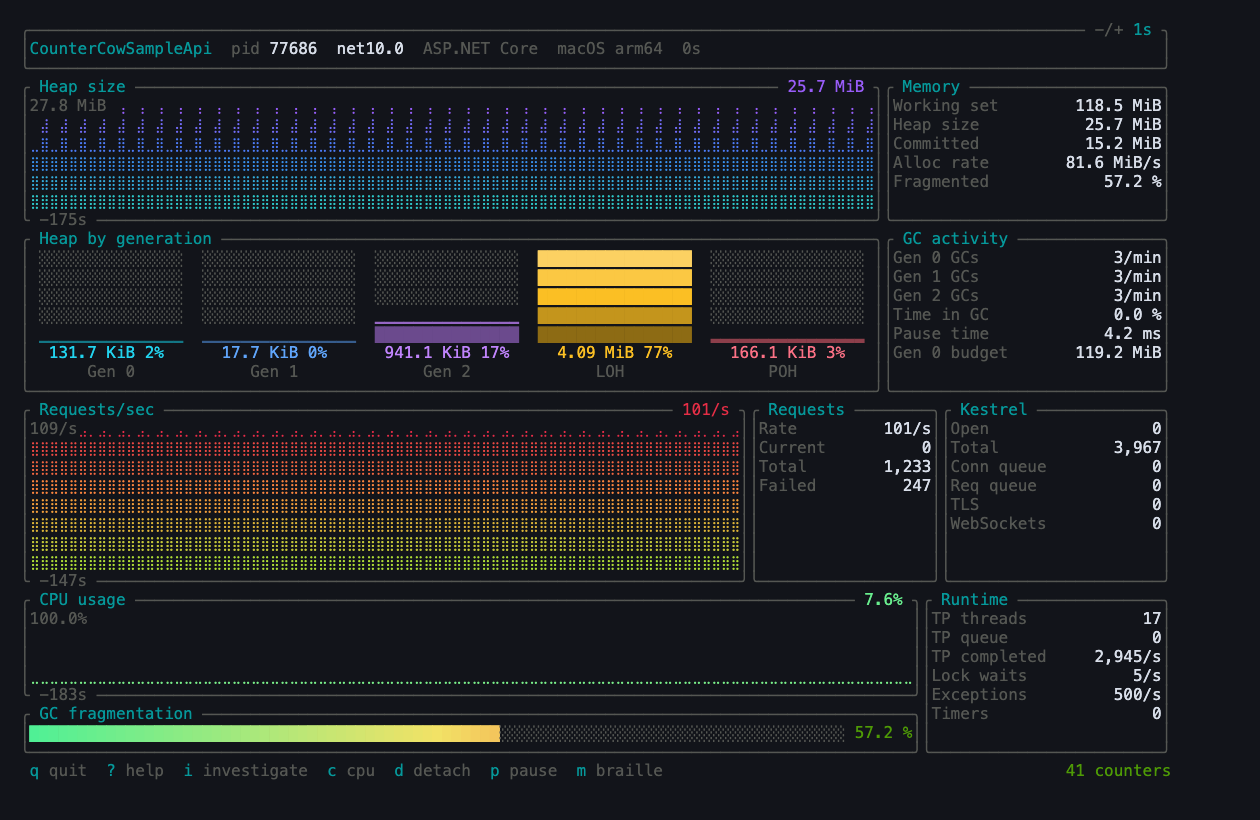
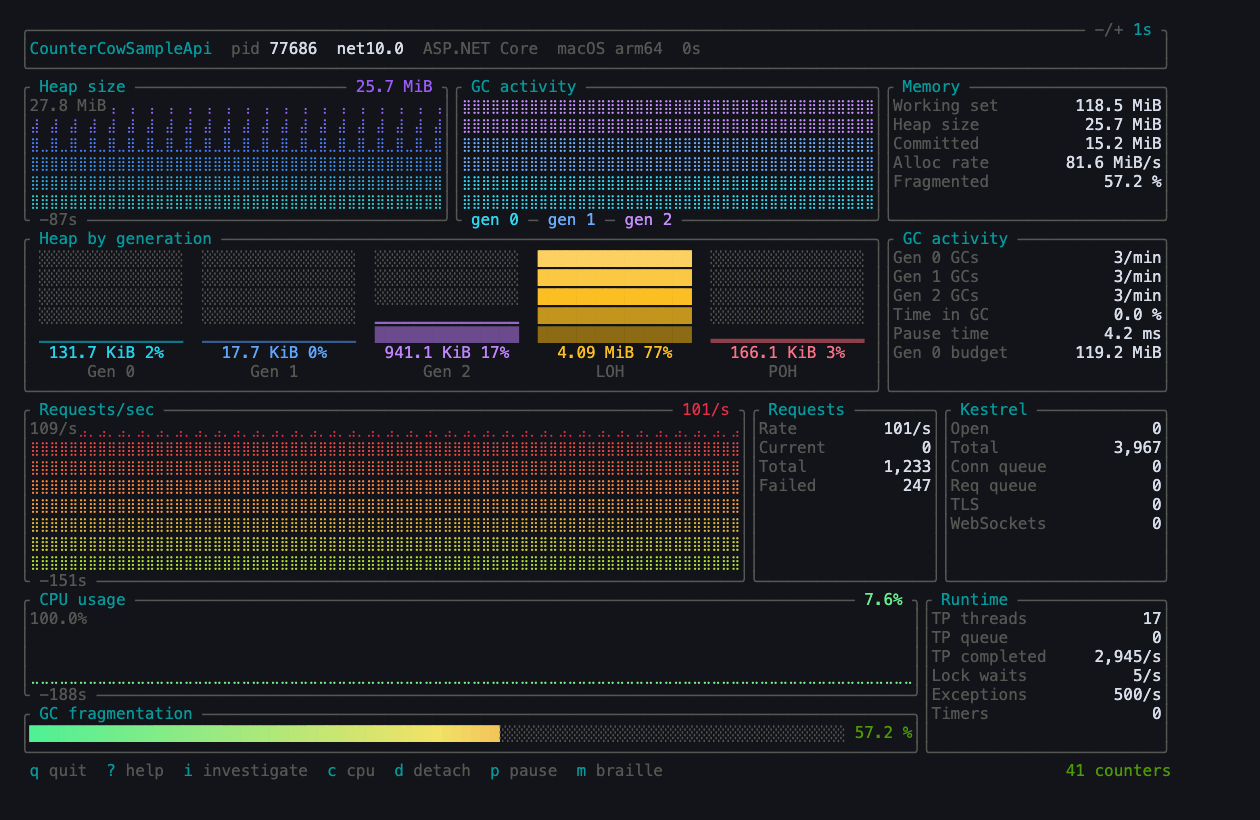
Chart collections over time, stacked by generation
The GC activity panel reports its counters as rates, which on anything
but a busy process read zero and look like a panel that does not work.
The events are real but there is nowhere to see them: a collection moves
the number for one interval and is gone.

A timeline beside the heap chart keeps them. Collections per interval,
stacked gen 0 to gen 2, each band in the same colour as its bar in the
panel below, with the legend in the bottom border. A quiet process now
reads as visibly quiet rather than as broken, and a gen 2 collection is a
mark you can point at while the heap chart next to it explains why.

Stacked plotting colours a cell by the highest band in it rather than by
height, which is the opposite of the other graphs but the right way round
here: the question is which generation collected, not how far up it got.
Braille packs two samples into a cell, so a band boundary has to land on a
cell edge — there is no way to colour half of one.

The scale has a floor of four collections, so one collection in a quiet
window is a mark near the bottom rather than a full-height bar reading as
an emergency. Below about a hundred columns the row goes back to the heap
chart alone; two charts sharing sixty columns leaves neither wide enough
to show a shape.

Changed region(s): [[0.031, 0.0915, 0.7119, 0.2744], [0.031, 0.2439, 0.0619, 0.2744]]

diff --git a/src/ui/graph.rs b/src/ui/graph.rs
@@ -165,6 +165,127 @@ impl Graph<'_> {
     }
 }
 
+/// One series of a [`Stacked`] plot, drawn on top of the bands before it.
+pub struct Band<'a> {
+    /// Oldest first, the same length as every other band in the plot.
+    pub values: &'a [f64],
+    pub color: Color,
+}
+
+/// Several series stacked into one plot, newest sample at the right edge.
+///
+/// Unlike [`Graph`] the colour carries the series rather than the height, because that is the
+/// question here: which generation collected, not how far up the plot it reached. A cell takes the
+/// colour of the highest band present in it, so a boundary between two bands lands on a cell edge
+/// rather than inside one — braille packs two samples into a cell and there is no way to colour
+/// half of one.
+pub struct Stacked<'a> {
+    /// Bottom band first.
+    pub bands: &'a [Band<'a>],
+    /// Full-scale value for the summed stack.
+    pub max: f64,
+    pub plot: Plot,
+}
+
+impl Stacked<'_> {
+    pub fn render(&self, buf: &mut Buffer, area: Rect) {
+        if area.width == 0 || area.height == 0 || self.max <= 0.0 || self.bands.is_empty() {
+            return;
+        }
+
+        let rows_per_cell = self.plot.rows_per_cell();
+        let columns = Graph::capacity(self.plot, area.width);
+        let sub_rows = area.height as usize * rows_per_cell;
+
+        // Cumulative sub-row height per band, per sub-column: tops[column][band] is where that
+        // band ends, so the band owning a given height is the first one that reaches it.
+        let mut tops = vec![vec![0usize; self.bands.len()]; columns];
+        for (index, band) in self.bands.iter().enumerate() {
+            let recent = &band.values[band.values.len().saturating_sub(columns)..];
+            let offset = columns - recent.len();
+            for (position, value) in recent.iter().enumerate() {
+                let column = &mut tops[offset + position];
+                let below = if index == 0 { 0 } else { column[index - 1] };
+                let height = if value.is_finite() && *value > 0.0 {
+                    ((value / self.max * sub_rows as f64).round() as usize).max(1)
+                } else {
+                    0
+                };
+                column[index] = (below + height).min(sub_rows);
+            }
+        }
+
+        for cell_y in 0..area.height {
+            for cell_x in 0..area.width {
+                let Some((symbol, band)) =
+                    self.cell(&tops, sub_rows, rows_per_cell, cell_x, cell_y)
+                else {
+                    continue;
+                };
+                buf[(area.x + cell_x, area.y + cell_y)]
+                    .set_char(symbol)
+                    .set_style(Style::default().fg(self.bands[band].color));
+            }
+        }
+    }
+
+    /// The glyph for one cell and the band that should colour it.
+    fn cell(
+        &self,
+        tops: &[Vec<usize>],
+        sub_rows: usize,
+        rows_per_cell: usize,
+        cell_x: u16,
+        cell_y: u16,
+    ) -> Option<(char, usize)> {
+        let total = |column: usize| tops[column].last().copied().unwrap_or(0);
+        // The band that owns the highest filled sub-row in this cell is the one that colours it.
+        let mut highest = 0usize;
+        let mut owner = 0usize;
+
+        let symbol = if self.plot == Plot::Block {
+            let column = cell_x as usize;
+            let base = sub_rows - (cell_y as usize + 1) * rows_per_cell;
+            let eighths = total(column).saturating_sub(base).min(8);
+            if eighths == 0 {
+                return None;
+            }
+            highest = base + eighths;
+            owner = self.owner(&tops[column], highest);
+            EIGHTHS[eighths]
+        } else {
+            let mut pattern = 0usize;
+            for row in 0..rows_per_cell {
+                let from_bottom = sub_rows - (cell_y as usize * rows_per_cell + row);
+                for offset in 0..2 {
+                    let column = cell_x as usize * 2 + offset;
+                    if total(column) >= from_bottom {
+                        pattern |= 1 << (row * 2 + offset);
+                        if from_bottom > highest {
+                            highest = from_bottom;
+                            owner = self.owner(&tops[column], from_bottom);
+                        }
+                    }
+                }
+            }
+            if pattern == 0 {
+                return None;
+            }
+            match self.plot {
+                Plot::Octant => pixel::OCTANTS[pattern],
+                _ => braille::BRAILLE[pattern],
+            }
+        };
+
+        Some((symbol, owner))
+    }
+
+    /// The band a given height belongs to.
+    fn owner(&self, tops: &[usize], height: usize) -> usize {
+        tops.iter().position(|&top| height <= top).unwrap_or(tops.len() - 1)
+    }
+}
+
 /// One value as a chunky vertical bar filling `area`, coloured by height like a [`Graph`].
 ///
 /// `track` shades the unfilled remainder. Bars in a group share a scale, so a small one is a
@@ -360,6 +481,65 @@ mod tests {
         let mut buf = Buffer::empty(Rect::new(0, 0, 10, 10));
         graph(&[1.0], 1.0, Plot::Braille).render(&mut buf, Rect::new(0, 0, 0, 5));
         graph(&[1.0], 1.0, Plot::Braille).render(&mut buf, Rect::new(0, 0, 5, 0));
+    }
+
+    /// Render a stack and return each row as (symbols, distinct colours left to right).
+    fn stack(bands: &[(&[f64], Color)], max: f64, width: u16, height: u16) -> Vec<(String, Vec<Color>)> {
+        let area = Rect::new(0, 0, width, height);
+        let mut buf = Buffer::empty(area);
+        let bands: Vec<Band> = bands.iter().map(|(values, color)| Band { values, color: *color }).collect();
+        Stacked { bands: &bands, max, plot: Plot::Block }.render(&mut buf, area);
+
+        (0..height)
+            .map(|y| {
+                let symbols: String = (0..width).map(|x| buf[(x, y)].symbol()).collect();
+                let colours = (0..width).map(|x| buf[(x, y)].fg).collect();
+                (symbols, colours)
+            })
+            .collect()
+    }
+
+    #[test]
+    fn bands_stack_bottom_first_and_keep_their_own_colours() {
+        // Two units of red under two of blue, on a four-unit scale: each fills half the plot.
+        let rows = stack(&[(&[2.0; 4], Color::Red), (&[2.0; 4], Color::Blue)], 4.0, 4, 2);
+        assert_eq!(rows[0].0, "████", "the upper band");
+        assert_eq!(rows[1].0, "████", "the lower band");
+        assert!(rows[0].1.iter().all(|c| *c == Color::Blue), "{:?}", rows[0].1);
+        assert!(rows[1].1.iter().all(|c| *c == Color::Red), "{:?}", rows[1].1);
+    }
+
+    #[test]
+    fn a_band_that_is_all_zero_takes_no_room() {
+        let rows = stack(&[(&[4.0; 2], Color::Red), (&[0.0; 2], Color::Blue)], 4.0, 2, 2);
+        assert!(rows.iter().all(|(_, colours)| colours.iter().all(|c| *c == Color::Red)));
+    }
+
+    #[test]
+    fn an_empty_stack_draws_nothing() {
+        let rows = stack(&[(&[0.0; 4], Color::Red), (&[0.0; 4], Color::Blue)], 4.0, 4, 2);
+        assert!(rows.iter().all(|(symbols, _)| symbols.trim().is_empty()), "{rows:?}");
+    }
+
+    #[test]
+    fn a_stack_is_anchored_to_the_right_like_a_graph() {
+        let rows = stack(&[(&[4.0, 4.0], Color::Red)], 4.0, 4, 1);
+        assert_eq!(rows[0].0, "  ██");
+    }
+
+    #[test]
+    fn a_stack_clamps_rather_than_overflowing_its_area() {
+        let rows = stack(&[(&[99.0; 2], Color::Red), (&[99.0; 2], Color::Blue)], 4.0, 2, 2);
+        assert!(rows.iter().all(|(symbols, _)| symbols == "██"), "{rows:?}");
+    }
+
+    #[test]
+    fn a_degenerate_stack_is_survivable() {
+        let mut buf = Buffer::empty(Rect::new(0, 0, 10, 10));
+        let bands = [Band { values: &[1.0], color: Color::Red }];
+        Stacked { bands: &bands, max: 1.0, plot: Plot::Braille }.render(&mut buf, Rect::new(0, 0, 0, 4));
+        Stacked { bands: &[], max: 1.0, plot: Plot::Braille }.render(&mut buf, Rect::new(0, 0, 4, 4));
+        Stacked { bands: &bands, max: 0.0, plot: Plot::Braille }.render(&mut buf, Rect::new(0, 0, 4, 4));
     }
 
     #[test]

diff --git a/src/ui/dashboard.rs b/src/ui/dashboard.rs
@@ -10,6 +10,7 @@ use crate::app::{format_uptime, App, Reading, Status};
 use crate::counters::catalog;
 
 use super::chart::{self, Scale, TimeSeries};
+use super::graph;
 use super::panels;
 use super::theme::Theme;
 
@@ -169,6 +170,10 @@ fn format_interval(seconds: f64) -> String {
 const BARS_HEIGHT: u16 = 9;
 /// Smallest chart that still conveys a trend.
 const MIN_CHART_HEIGHT: u16 = 6;
+/// Width below which a chart is too cramped to be worth splitting the row for.
+const MIN_CHART_WIDTH: u16 = 34;
+/// Collections per interval that fill the GC chart, however quiet the process is.
+const GC_CHART_FLOOR: f64 = 4.0;
 
 /// GC and memory, which gets the most space on both layouts.
 fn render_gc_section(frame: &mut Frame, area: Rect, app: &App, theme: &Theme) {
@@ -188,13 +193,27 @@ fn render_gc_section(frame: &mut Frame, area: Rect, app: &App, theme: &Theme) {
     let [top, bottom] =
         Layout::vertical([Constraint::Fill(1), Constraint::Length(BARS_HEIGHT)]).areas(area);
 
-    let [chart_area, memory_area] =
-        Layout::horizontal([Constraint::Fill(1), Constraint::Length(stats_width)]).areas(top);
     let [bars_area, activity_area] =
         Layout::horizontal([Constraint::Fill(1), Constraint::Length(stats_width)]).areas(bottom);
 
-    render_bytes_chart(frame, chart_area, app, theme, "Heap size", "gc-heap-size");
-    panels::stats(frame, memory_area, theme, "Memory", &panels::memory_rows(app));
+    // The GC chart only earns its place once both charts still have room to show a shape; below
+    // that the heap trend is the more useful of the two and keeps the whole width.
+    if top.width >= stats_width + MIN_CHART_WIDTH * 2 {
+        let [chart_area, gc_area, memory_area] = Layout::horizontal([
+            Constraint::Fill(1),
+            Constraint::Fill(1),
+            Constraint::Length(stats_width),
+        ])
+        .areas(top);
+        render_bytes_chart(frame, chart_area, app, theme, "Heap size", "gc-heap-size");
+        render_gc_chart(frame, gc_area, app, theme);
+        panels::stats(frame, memory_area, theme, "Memory", &panels::memory_rows(app));
+    } else {
+        let [chart_area, memory_area] =
+            Layout::horizontal([Constraint::Fill(1), Constraint::Length(stats_width)]).areas(top);
+        render_bytes_chart(frame, chart_area, app, theme, "Heap size", "gc-heap-size");
+        panels::stats(frame, memory_area, theme, "Memory", &panels::memory_rows(app));
+    }
     panels::generation_bars(frame, bars_area, theme, app);
     panels::stats(frame, activity_area, theme, "GC activity", &panels::gc_activity_rows(app));
 }
@@ -296,6 +315,63 @@ fn render_runtime_section(
     if with_jit {
         panels::stats(frame, chunks[2], theme, "JIT", &panels::jit_rows(app));
     }
+}
+
+/// Collections per interval, stacked by generation.
+///
+/// The stats panel next door reports the same counters as rates, which on anything but a busy
+/// process reads zero most of the time and looks broken. Here a collection is a mark on a timeline
+/// in its generation's colour, so a quiet process is visibly quiet rather than apparently dead.
+fn render_gc_chart(frame: &mut Frame, area: Rect, app: &App, theme: &Theme) {
+    let labels = ["gen 0", "gen 1", "gen 2"];
+    let series: Vec<Vec<f64>> = catalog::GC_COUNT_COUNTERS
+        .iter()
+        .map(|counter| {
+            app.history(catalog::SYSTEM_RUNTIME, counter)
+                .iter()
+                .map(|reading| reading.value)
+                .collect()
+        })
+        .collect();
+
+    if series.iter().all(|values| values.is_empty()) {
+        chart::placeholder(frame, area, "GC activity", theme);
+        return;
+    }
+
+    // The generations report independently, so trim to the shortest before stacking: a band that
+    // is one sample longer than its neighbour would stack the wrong readings on top of each other.
+    let shortest = series.iter().map(Vec::len).min().unwrap_or(0);
+    // A floor on the scale, so one collection in a quiet window is a mark near the bottom rather
+    // than a full-height bar that reads as an emergency.
+    let peak = (0..shortest)
+        .map(|index| series.iter().map(|values| values[index]).sum::<f64>())
+        .fold(0.0, f64::max)
+        .max(GC_CHART_FLOOR);
+
+    let mut block = panels::titled_block("GC activity", theme);
+    for (index, label) in labels.iter().enumerate() {
+        let colour = theme.on(&theme.generation_gradient(index), 0.6);
+        block = block.title_bottom(Span::from(format!(" {label} ")).fg(colour));
+    }
+
+    let inner = block.inner(area);
+    frame.render_widget(block, area);
+    if inner.width == 0 || inner.height == 0 || peak <= 0.0 {
+        return;
+    }
+
+    let bands: Vec<graph::Band> = series
+        .iter()
+        .enumerate()
+        .map(|(index, values)| graph::Band {
+            values: &values[values.len() - shortest..],
+            color: theme.on(&theme.generation_gradient(index), 0.6),
+        })
+        .collect();
+
+    graph::Stacked { bands: &bands, max: peak, plot: theme.plot }
+        .render(frame.buffer_mut(), inner);
 }
 
 /// Chart a memory counter, scaling its history to bytes so the axis reads correctly whether the

diff --git a/examples/preview.rs b/examples/preview.rs
@@ -101,6 +101,9 @@ fn main() -> Result<(), Box<dyn std::error::Error>> {
             std::ops::ControlFlow::Continue(())
         })?;
     } else {
+        // Wound back far enough that the last reading lands about now.
+        let tick = std::time::Duration::from_millis(25);
+        let mut clock = std::time::Instant::now() - tick * 4000;
         for _ in 0..repeat {
             let mut parser = NettraceParser::new(std::io::Cursor::new(fixture))?;
             while let Some(batch) = parser.next_events()? {
@@ -109,7 +112,10 @@ fn main() -> Result<(), Box<dyn std::error::Error>> {
                         continue;
                     };
                     if let Some(s) = sample::extract(metadata, &event)? {
-                        app.record(s);
+                        // Stamped as though the capture were arriving live, so the charts can
+                        // report a span rather than the microseconds the replay actually took.
+                        app.record_at(s, clock);
+                        clock += tick;
                     }
                 }
             }

diff --git a/tests/dashboard.rs b/tests/dashboard.rs
@@ -279,6 +279,24 @@ fn the_charts_annotate_their_scale_and_span() {
 }
 
 #[test]
+fn a_wide_terminal_gets_the_gc_timeline_beside_the_heap_chart() {
+    let output = render(&app_from(ASPNET), 140, 40);
+    assert!(output.contains("GC activity"), "the GC chart should appear");
+    for generation in ["gen 0", "gen 1", "gen 2"] {
+        assert!(output.contains(generation), "{generation} missing from the chart legend");
+    }
+    assert!(output.contains("Heap size"), "the heap chart keeps its place");
+}
+
+#[test]
+fn a_narrow_terminal_gives_the_whole_row_to_the_heap_chart() {
+    // Two charts sharing 60-odd columns would leave neither wide enough to show a shape.
+    let output = render(&app_from(ASPNET), 80, 40);
+    assert!(output.contains("Heap size"));
+    assert!(!output.contains("gen 0 "), "no chart legend at this width");
+}
+
+#[test]
 fn an_app_with_no_samples_shows_placeholders_not_an_empty_screen() {
     let process = DotnetProcess {
         pid: 1,

diff --git a/src/counters/catalog.rs b/src/counters/catalog.rs
@@ -19,6 +19,13 @@ pub const NET_HTTP: &str = "System.Net.Http";
 const MEGABYTE_COUNTERS: &[&str] =
     &["working-set", "gc-heap-size", "gc-committed", "gen-0-gc-budget"];
 
+/// Collections per interval, youngest generation first.
+///
+/// Increment counters: each reading is how many collections happened during that interval, which
+/// is what a timeline of GC activity wants. The panel that reports them as rates instead reads
+/// zero on anything but a busy process.
+pub const GC_COUNT_COUNTERS: &[&str] = &["gen-0-gc-count", "gen-1-gc-count", "gen-2-gc-count"];
+
 /// The generation sizes, largest-lived first, as they should appear in the GC panel.
 pub const GENERATION_COUNTERS: &[&str] =
     &["gen-0-size", "gen-1-size", "gen-2-size", "loh-size", "poh-size"];

diff --git a/src/app.rs b/src/app.rs
@@ -199,7 +199,12 @@ impl App {
     /// Record a sample. Pausing freezes the graphs but keeps the session running, so history is
     /// continuous when you unpause rather than showing a misleading gap.
     pub fn record(&mut self, sample: CounterSample) {
-        let now = Instant::now();
+        self.record_at(sample, Instant::now());
+    }
+
+    /// [`Self::record`] with the arrival time supplied, for replaying a capture at the cadence it
+    /// was gathered at rather than as fast as it parses.
+    pub fn record_at(&mut self, sample: CounterSample, now: Instant) {
         self.status = Status::Live;
         self.samples_seen += 1;
         self.last_sample_at = Some(now);

diff --git a/README.md b/README.md
@@ -27,6 +27,11 @@ is what the runtime reported, and the newest reading is always at the right edge
 counter with a real ceiling, so it holds a fixed 0–100% scale — a process ticking over at 7% looks
 like a process ticking over at 7%, not like one on fire.
 
+Beside the heap trend is a timeline of collections, stacked and coloured by generation to match
+the bars below it. The counters behind it are rates, which on anything but a busy process read
+zero and look broken; as a timeline a quiet process is visibly quiet rather than apparently dead,
+and a gen 2 collection is a mark you can point at.
+
 The layout adapts to the process: this is an ASP.NET Core app, so it gets request and Kestrel
 panels. See [What it shows](#what-it-shows).
 
